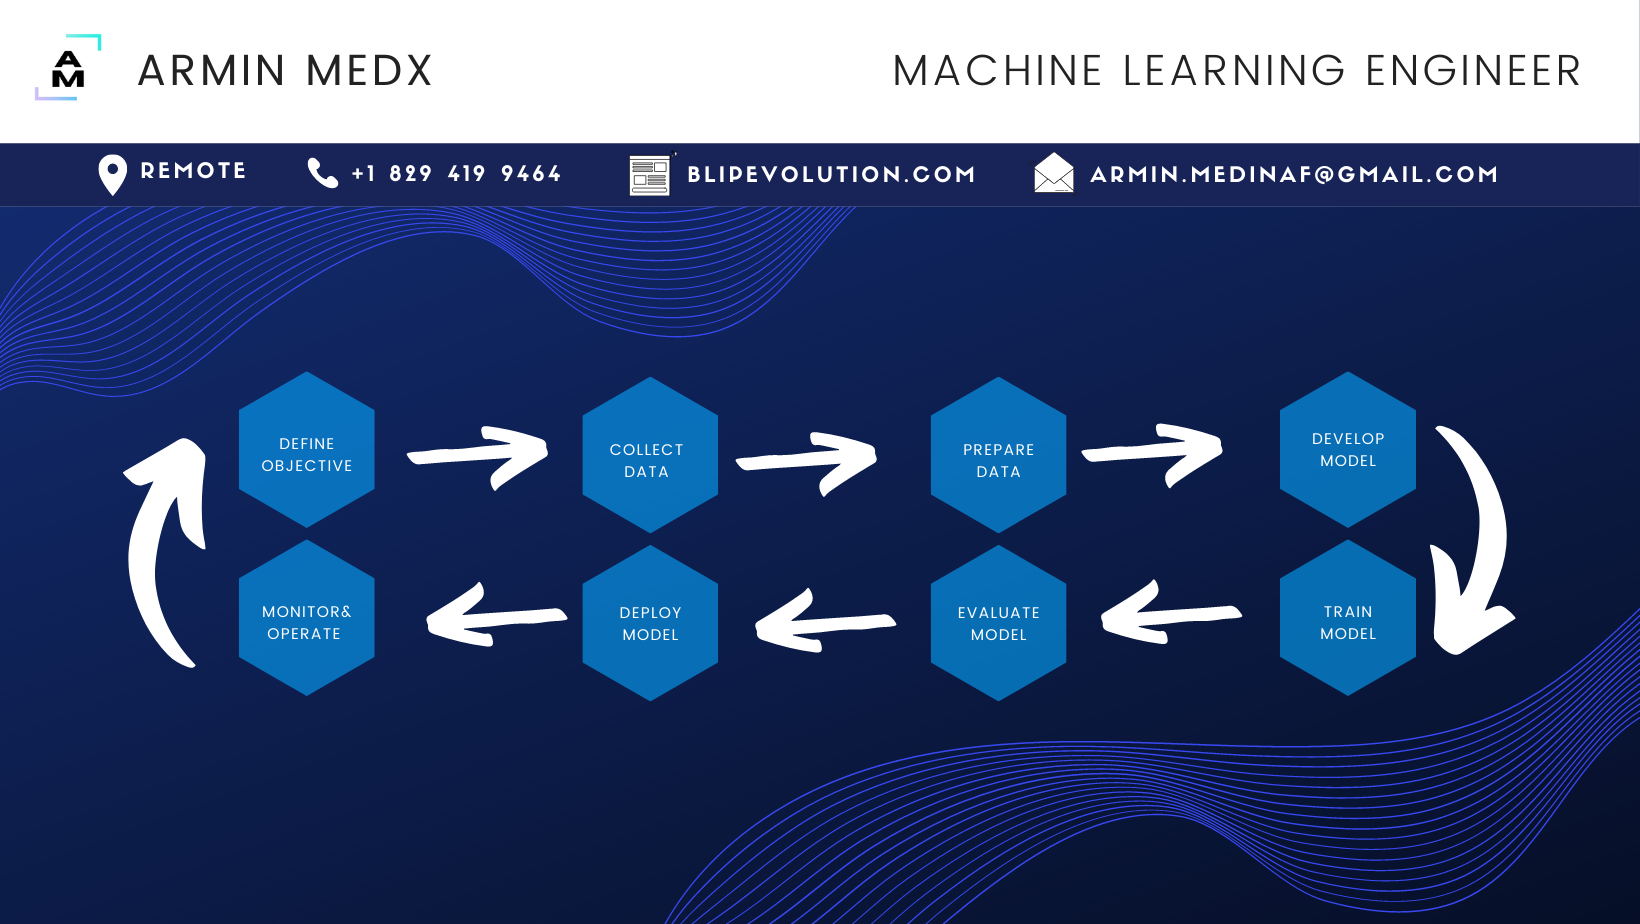
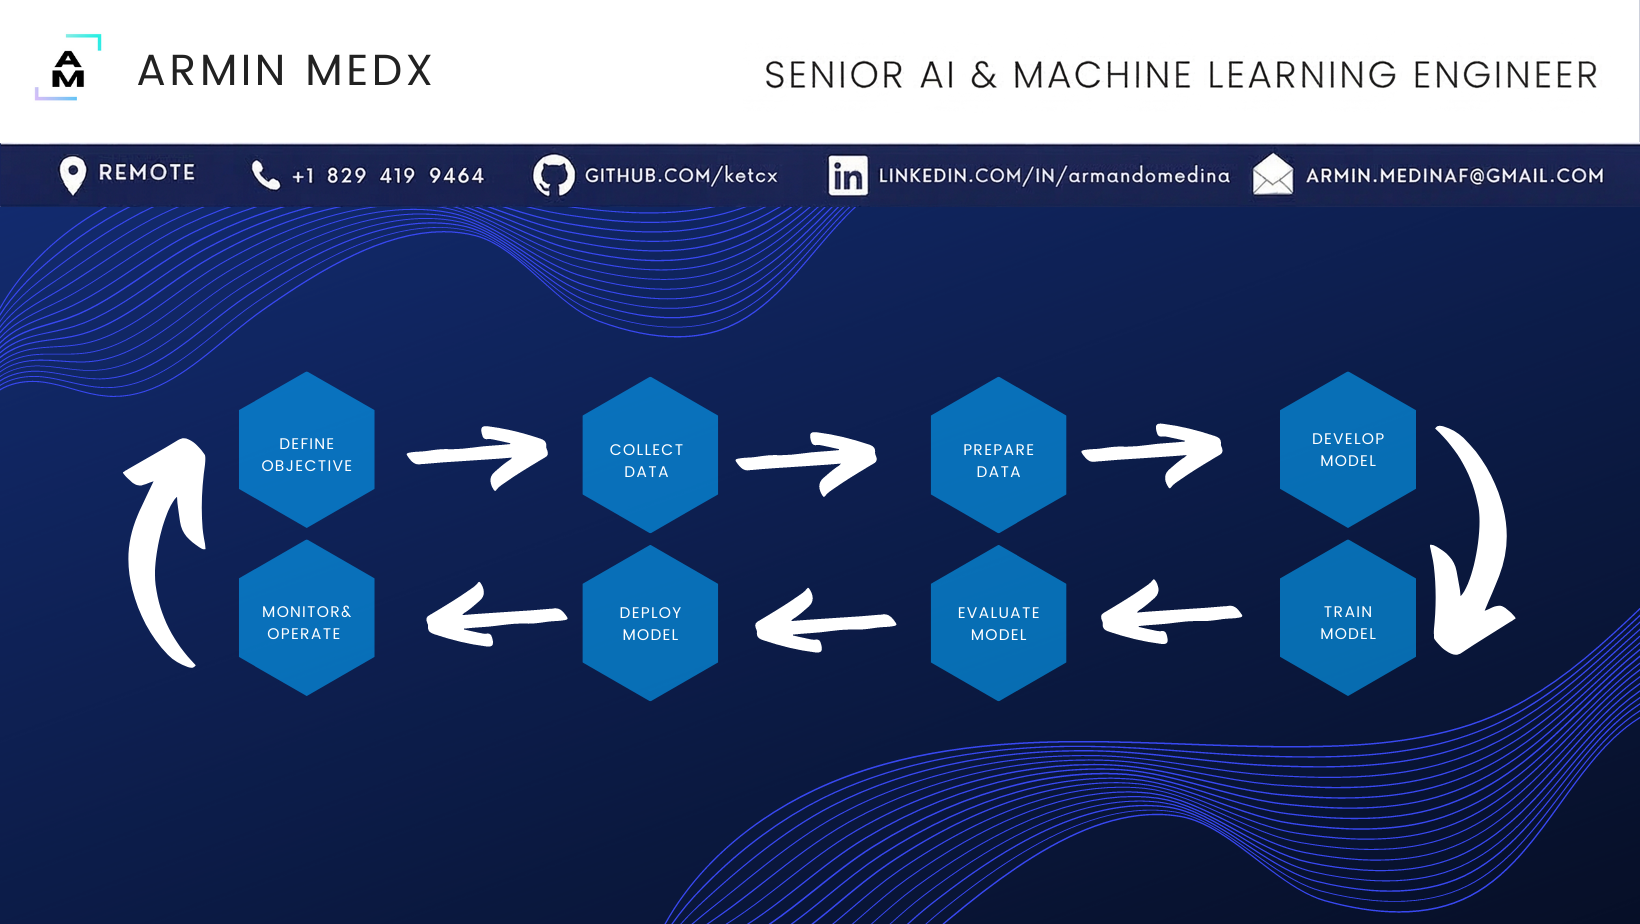
update profile readme.md

Changed region(s): [[0.0, 0.1515, 1.0, 0.2121], [0.4665, 0.0606, 0.9951, 0.0909]]

diff --git a/README.md b/README.md
@@ -5,39 +5,50 @@ yourname = input("Enter your name: ")
 print(f"Hello {yourname}! 👋 I'm Armin.")
 ```
 
-### Machine Learning Engineer | Software Engineer | NLP & Product Builder 🇩🇴
+### AI Engineer | AI Architect | ML Systems Builder 🇩🇴
 
 ![cover](https://github.com/ketcx/ketcx/blob/master/cover.png)
 
-## About Me
+## 👨💻 About Me
 
-I'm **Armando (a.k.a. Armin Medx)** — a **Machine Learning Engineer** with yaers  building software products end-to-end.  
-I enjoy turning real-world problems into **data-driven solutions**, with a special focus on **Natural Language Processing (NLP)** and scalable ML systems.
+I'm **Armando Medina (a.k.a. Armin Medx)**, an **AI Engineer** with over **15 years of experience** designing and shipping production-grade AI infrastructure and software products end-to-end. 
 
-Recently, I worked on **contact center automation** and shipped **mobile apps with React Native**. My goal is to keep building **intelligent, reliable products** that create measurable impact.
+I specialize in **LLM orchestration, RAG pipelines, Natural Language Processing (NLP)**, and building scalable Python backend systems. I enjoy turning real-world problems into **data-driven solutions** that create measurable business impact at scale. 
 
-## Core Skills
+Recently, I've been architecting ML-powered search systems (delivering millions of views and significant revenue lift for enterprise clients like Pinterest) and building **production-ready agentic workflows** and RAG QA systems using Claude API and OpenAI.
 
-### Machine Learning & Data
-- Python, Scikit-learn, TensorFlow, Keras, PyTorch  
-- NLP (classification, embeddings, information extraction)
-- Spark, Scala (data pipelines & distributed processing)
+## 🛠 Core Skills & Technologies
 
-### Software Engineering
-- JavaScript, Node.js
-- React / React Native
-- SQL
+### AI / Generative AI / NLP
+![ChatGPT](https://img.shields.io/badge/chatGPT-74aa9c?style=for-the-badge&logo=openai&logoColor=white)
+![LangChain](https://img.shields.io/badge/LangChain-1C3C3C?style=for-the-badge)
+![LlamaIndex](https://img.shields.io/badge/LlamaIndex-000000?style=for-the-badge)
+![PyTorch](https://img.shields.io/badge/PyTorch-%23EE4C2C.svg?style=for-the-badge&logo=PyTorch&logoColor=white)
+![TensorFlow](https://img.shields.io/badge/TensorFlow-%23FF6F00.svg?style=for-the-badge&logo=TensorFlow&logoColor=white)
+* LLMs (Claude, OpenAI), LangChain, LlamaIndex, RAG Pipelines, Vector DBs (Chroma), Multi-Agent Architectures, Prompt Engineering.
 
-### Cloud & MLOps
-- **Azure**: Cognitive Services, Azure Machine Learning  
-- **AWS**: SageMaker  
-- **IBM Cloud**: Watson Studio  
+### Backend & Engineering
+![Python](https://img.shields.io/badge/python-3670A0?style=for-the-badge&logo=python&logoColor=ffdd54)
+![FastAPI](https://img.shields.io/badge/FastAPI-005571?style=for-the-badge&logo=fastapi)
+![Django](https://img.shields.io/badge/django-%23092E20.svg?style=for-the-badge&logo=django&logoColor=white)
+![Docker](https://img.shields.io/badge/docker-%230db7ed.svg?style=for-the-badge&logo=docker&logoColor=white)
+* Python (8+ yrs), FastAPI, Flask, Django, REST & GraphQL APIs, Microservices, Supabase/PostGIS.
 
-## What I'm up to
-- 🌱 Currently exploring: **ML + data-driven product development**
-- 🤝 Open to: **collaborations** on impactful projects
-- 💬 Ask me about: **NLP, ML engineering, shipping AI products**
-- 📫 Reach me:
-  - Twitter: https://twitter.com/niux  
-  - Email: mailto:armin.medinaf@gmail.com  
-  - WhatsApp: https://api.whatsapp.com/send?phone=+18294199464
+### Cloud & DevOps 
+![Azure](https://img.shields.io/badge/azure-%230072C6.svg?style=for-the-badge&logo=microsoftazure&logoColor=white)
+![AWS](https://img.shields.io/badge/AWS-%23FF9900.svg?style=for-the-badge&logo=amazon-aws&logoColor=white)
+![GitHub Actions](https://img.shields.io/badge/github%20actions-%232671E5.svg?style=for-the-badge&logo=githubactions&logoColor=white)
+* Azure (AI Engineer Certified), AWS, GCP, GitHub Actions (CI/CD pipelines), Observability & LLMOps.
+
+## 🚀 What I'm up to
+- 🎓 **Currently:** Pursuing an M.S. in Data Science at Pontificia Universidad Católica de Chile.
+- 🌱 **Exploring:** Multi-step AI workflow orchestration and MCP server integrations.
+- 🤝 **Open to:** Collaborations on impactful AI projects and architectural challenges.
+- 💬 **Ask me about:** Scaling LLM deployments, Python backend architecture, RAG, and shipping robust AI products.
+
+## 📫 Reach Me
+- 💼 **LinkedIn:** [Armando Medina](https://www.linkedin.com/in/armandomedina/)
+- 🐦 **Twitter:** [@niux](https://twitter.com/niux)
+- 📧 **Email:** armin.medinaf@gmail.com
+- 💬 **WhatsApp:** [+1-829-419-9464](https://api.whatsapp.com/send?phone=+18294199464)
+
